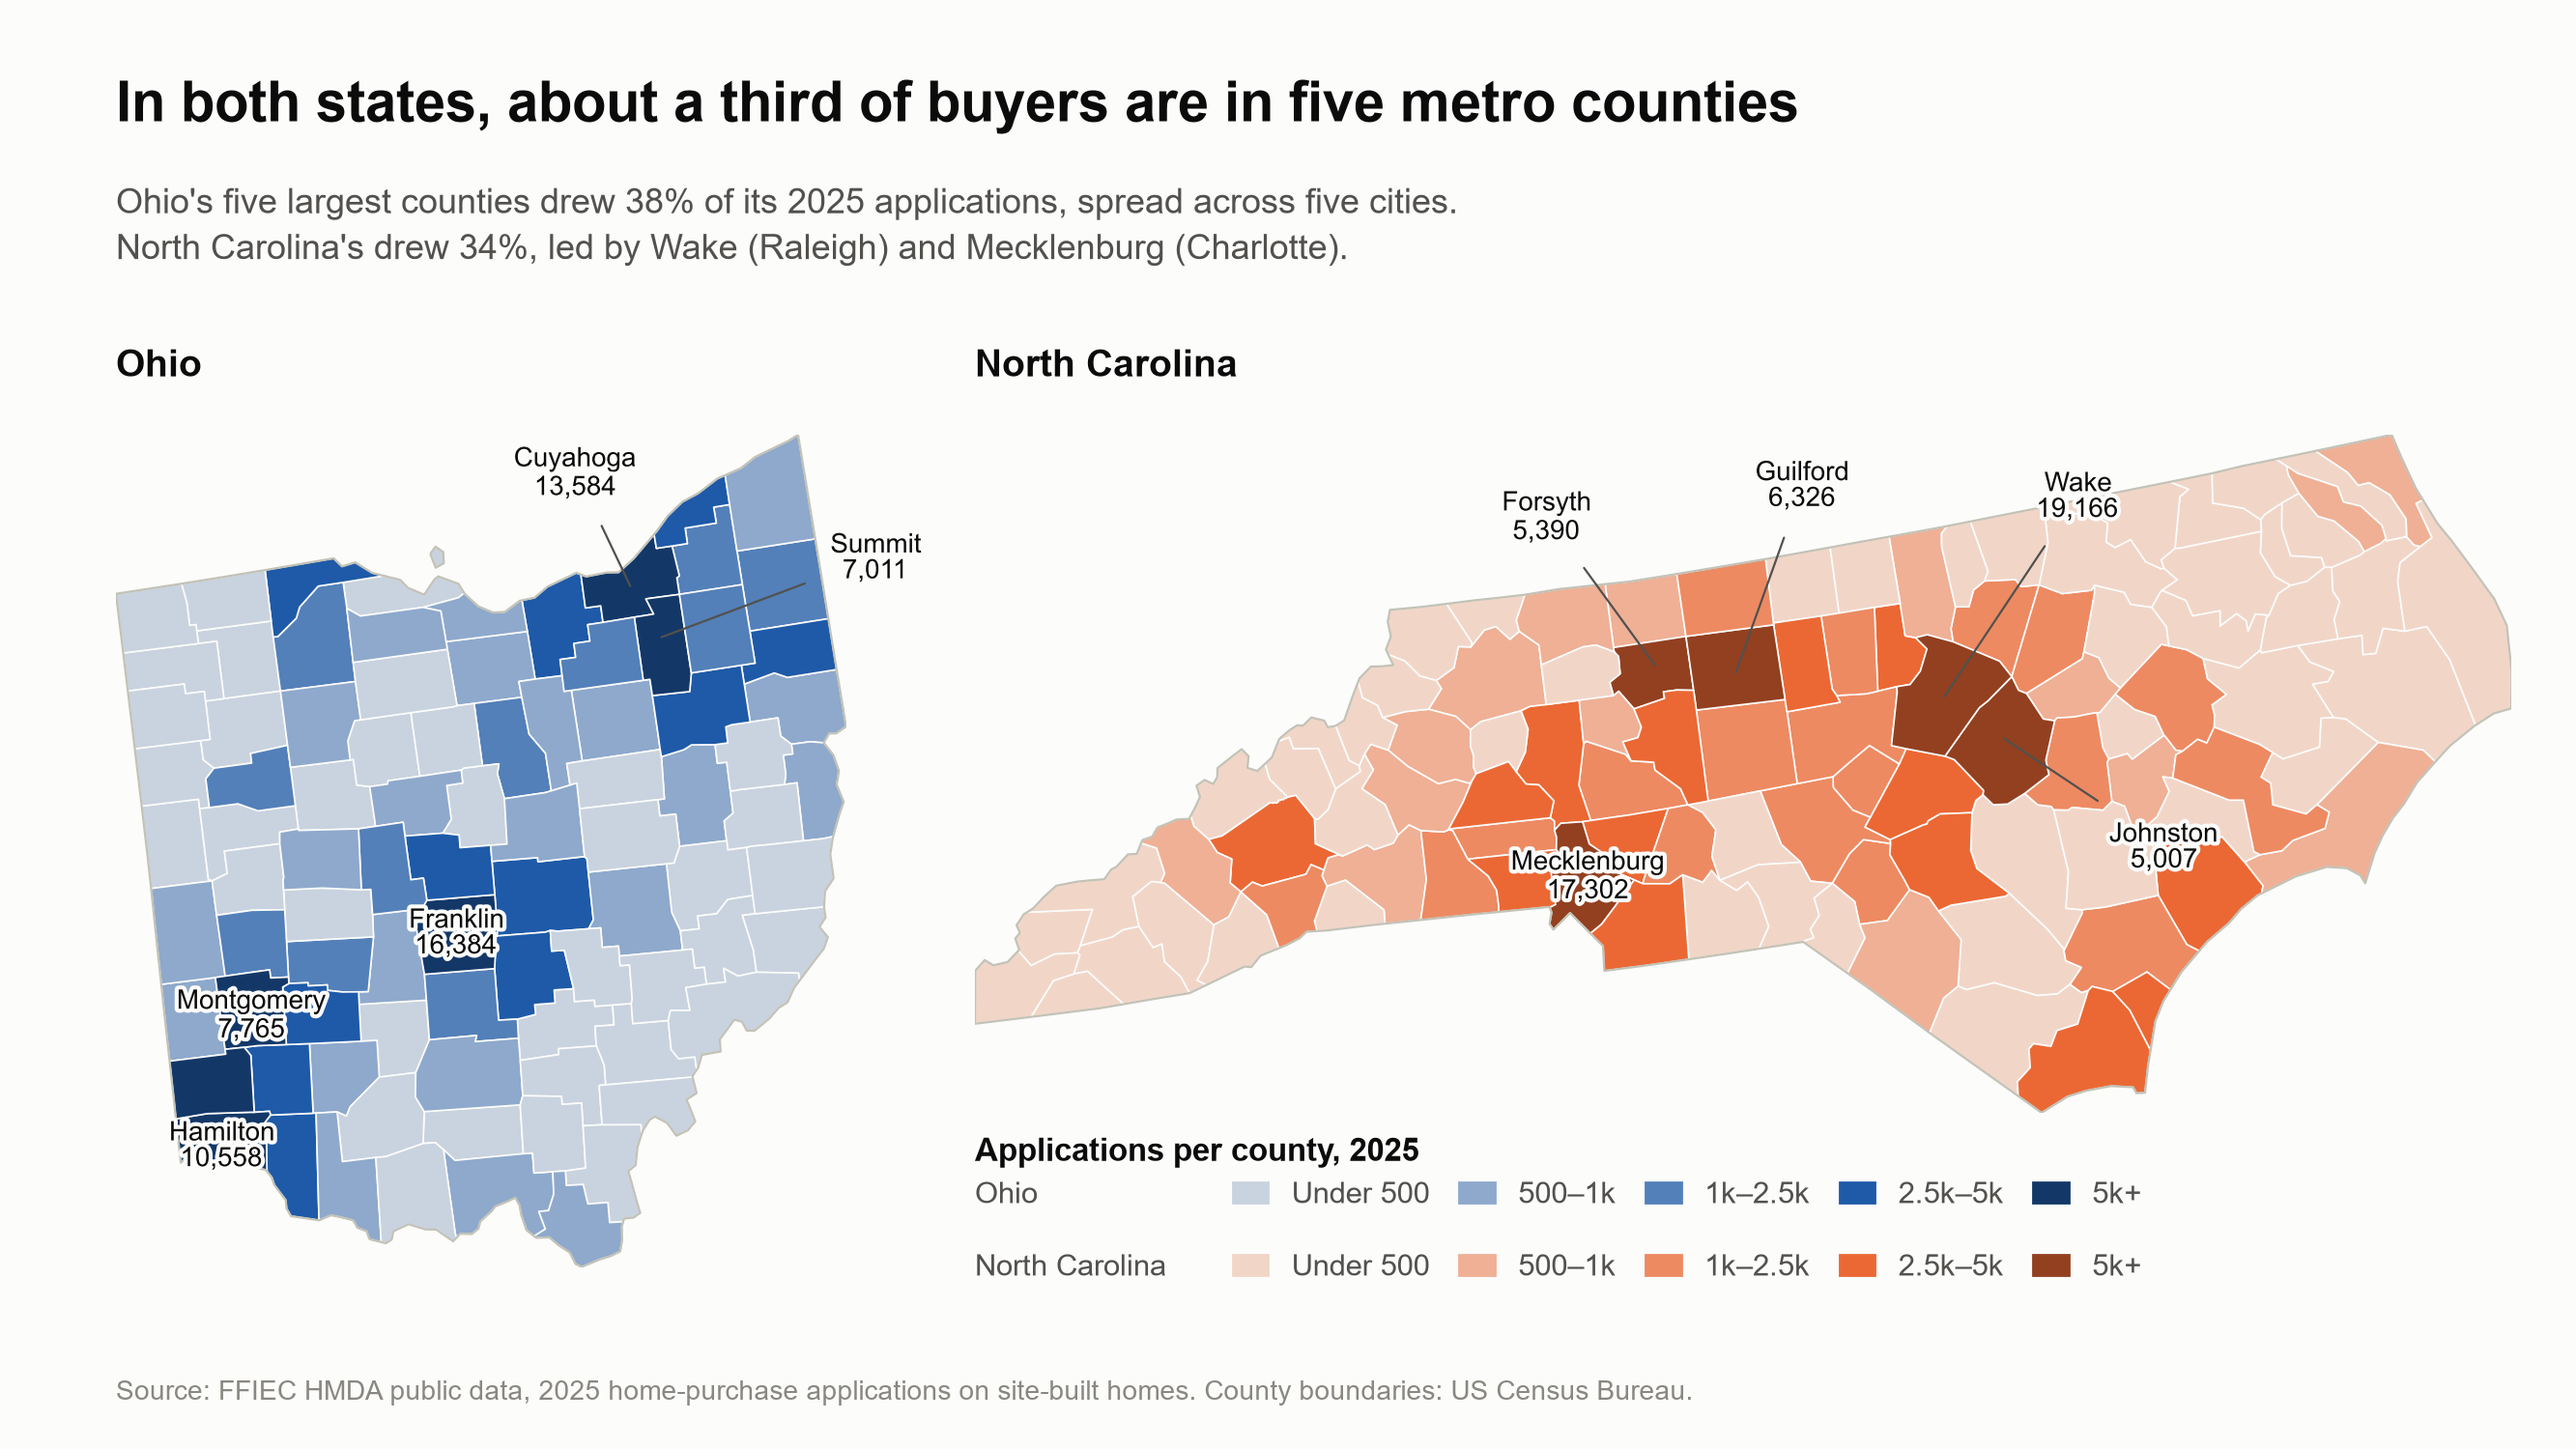
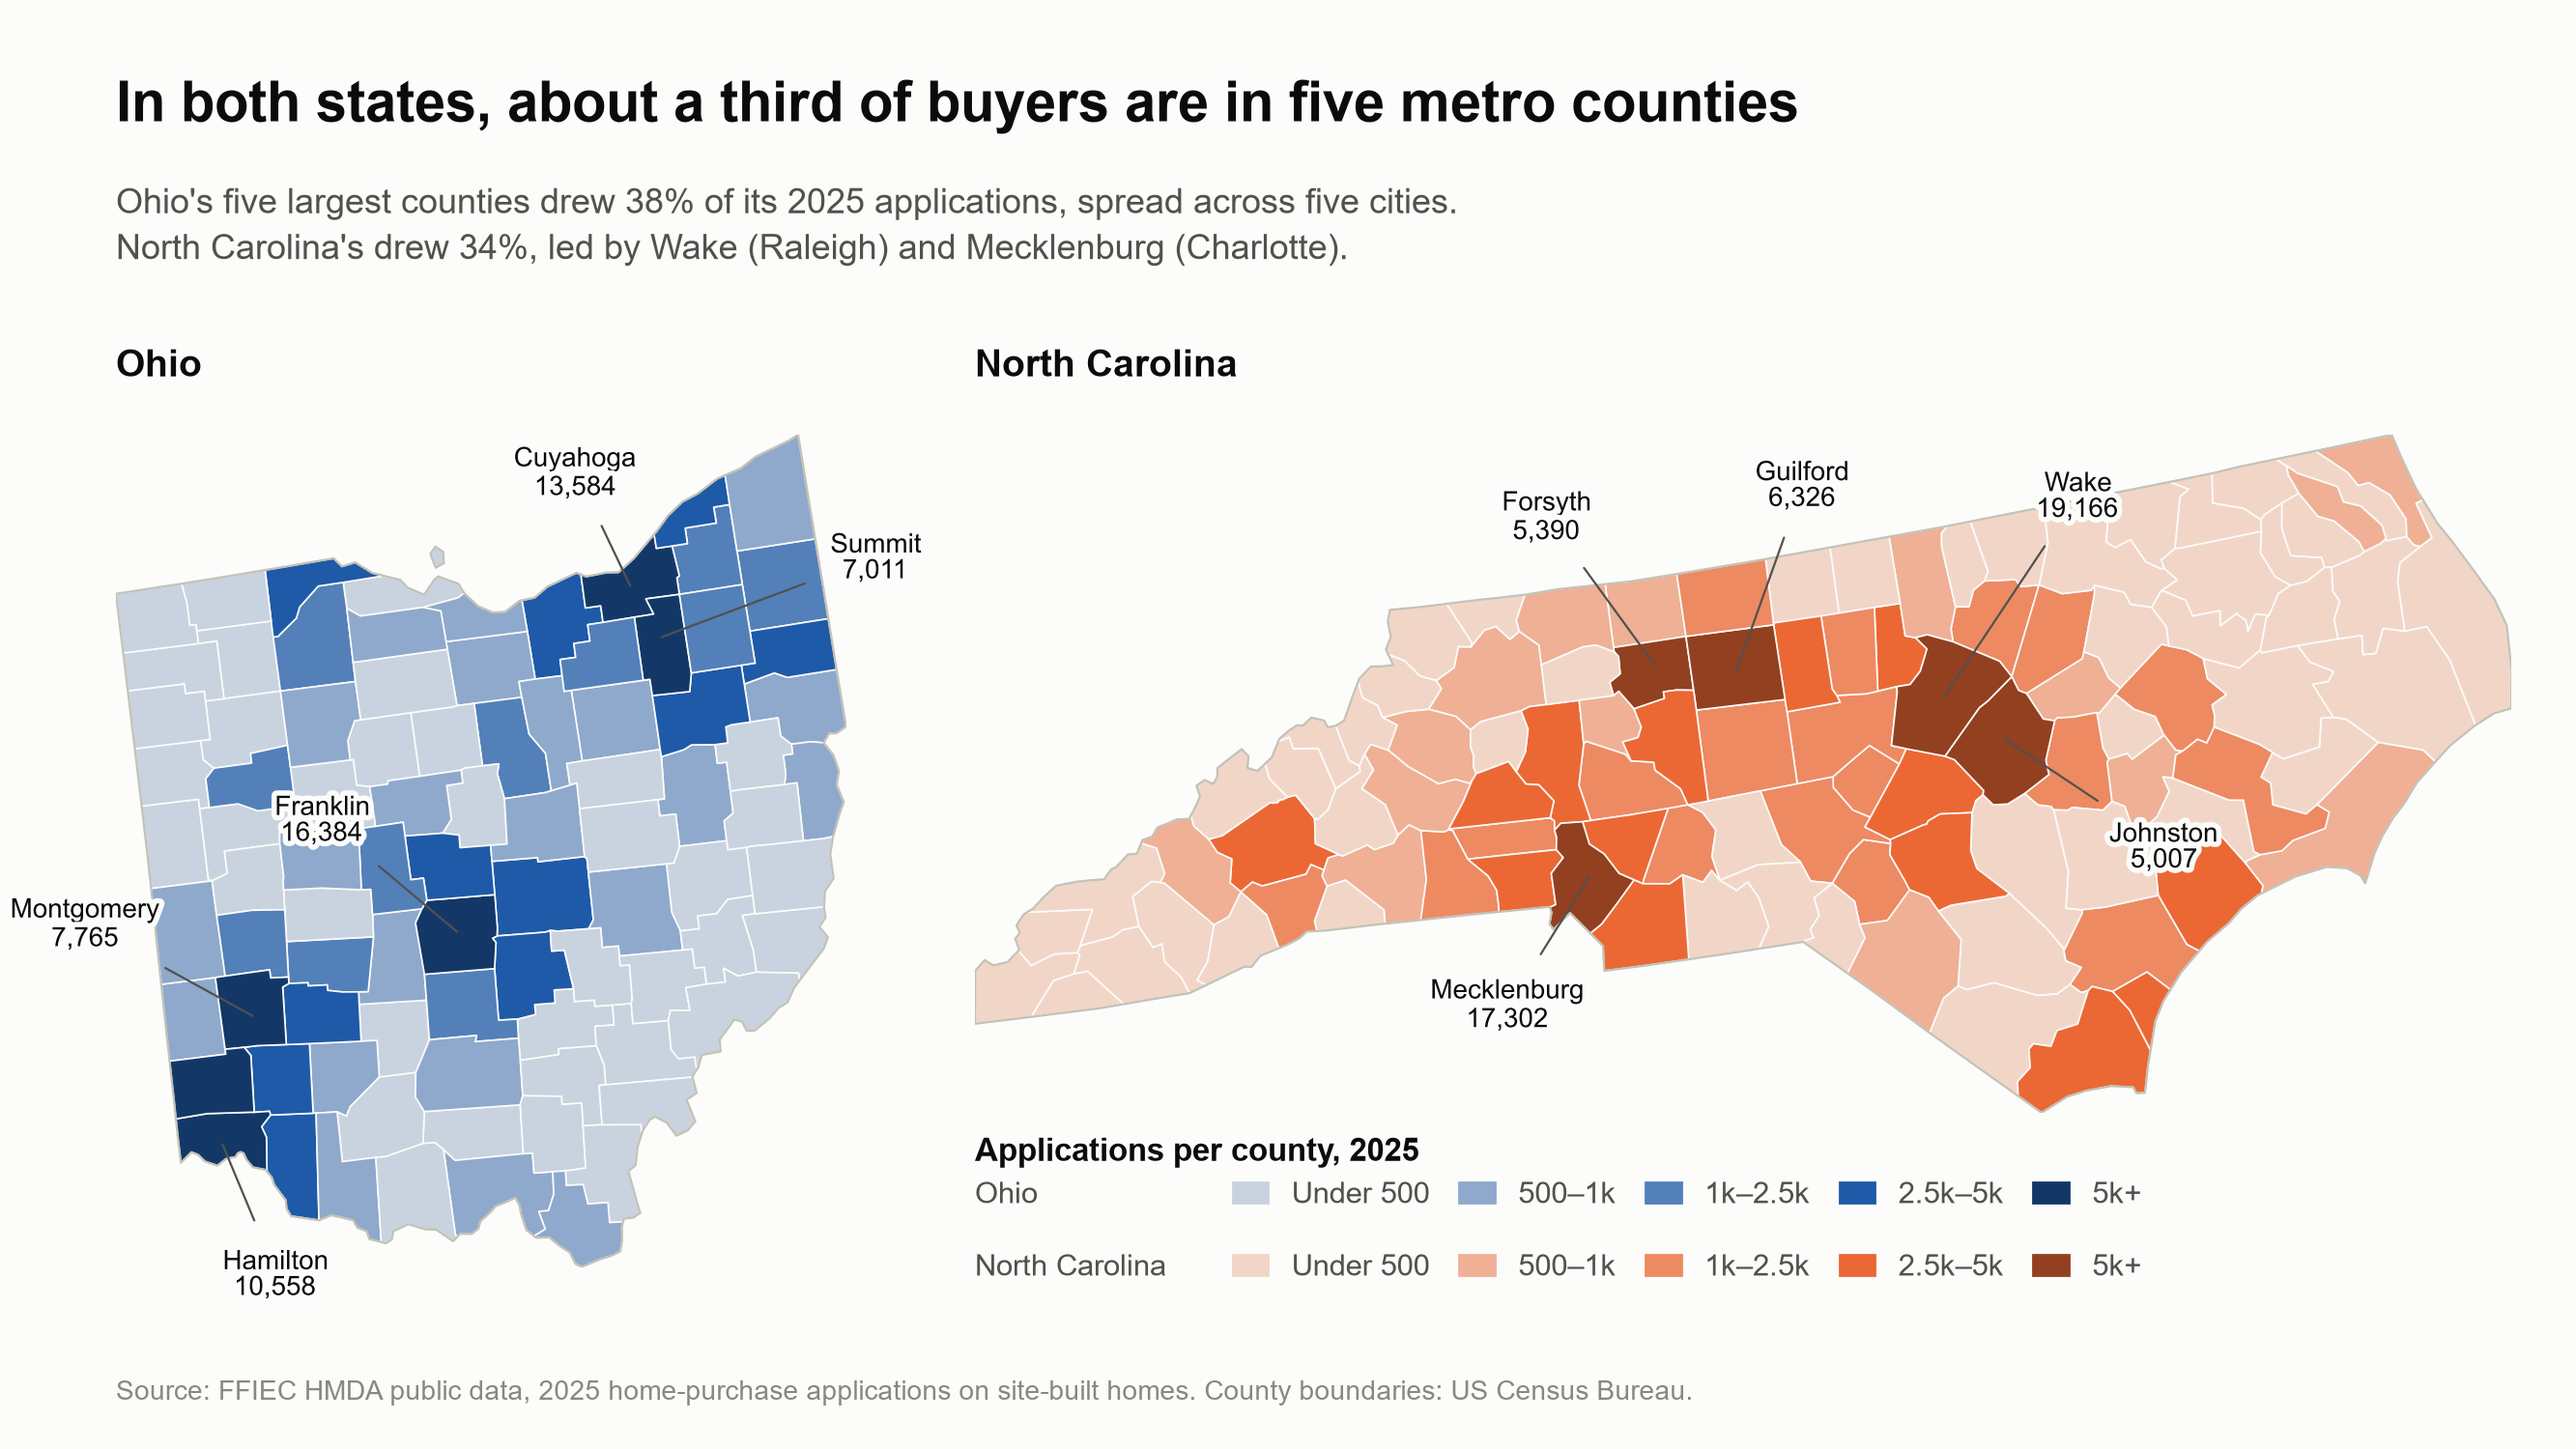
tweaked q7 map graph

diff --git a/projects/P0/charts/q7_demand_map.py b/projects/P0/charts/q7_demand_map.py
@@ -46,12 +46,14 @@ BIN_LABELS = ['Under 500', '500–1k', '1k–2.5k', '2.5k–5k', '5k+']
 # Each state keeps its deck colour: a light-to-dark ramp through it, one step per class.
 STATES = [('39', 'Ohio', '#1e5aa8'), ('37', 'North Carolina', '#eb6834')]
 N_LABELS = 5   # name each state's five largest counties on the map
-# Neighbouring big counties whose labels would collide: move the label by (x, y) points
-# and draw a thin leader line back to the county. Others are labelled in place.
+# Move a label by (x, y) points, with a thin leader line back to its county, when it would
+# collide with a neighbour or sit on a dark fill (text on the darkest class is hard to read).
+# Others are labelled in place.
 LABEL_OFFSETS = {
-    'Ohio': {'Cuyahoga': (-20, 42), 'Summit': (80, 30)},
+    'Ohio': {'Cuyahoga': (-20, 42), 'Summit': (80, 30),
+             'Hamilton': (20, -48), 'Montgomery': (-62, 34), 'Franklin': (-50, 42)},
     'North Carolina': {'Forsyth': (-40, 55), 'Guilford': (25, 70), 'Wake': (50, 75),
-                       'Johnston': (60, -40)},
+                       'Johnston': (60, -40), 'Mecklenburg': (-30, -48)},
 }
 
 
@@ -130,7 +132,7 @@ for group, (fips, state, base), b, w, h in zip(groups, STATES, bounds, widths, h
         ax.annotate(f"{row.NAME}\n{row[VALUE]:,.0f}", (point.x, point.y),
                     xytext=(dx, dy), textcoords='offset points', ha='center', va='center',
                     size=10, color=INK, linespacing=1.1, annotation_clip=False,
-                    path_effects=[pe.withStroke(linewidth=3, foreground=SURFACE)],
+                    path_effects=[pe.withStroke(linewidth=4, foreground=SURFACE)],
                     arrowprops=dict(arrowstyle='-', color=INK_2, linewidth=0.8, shrinkA=8, shrinkB=0)
                     if (dx, dy) != (0, 0) else None)
 
